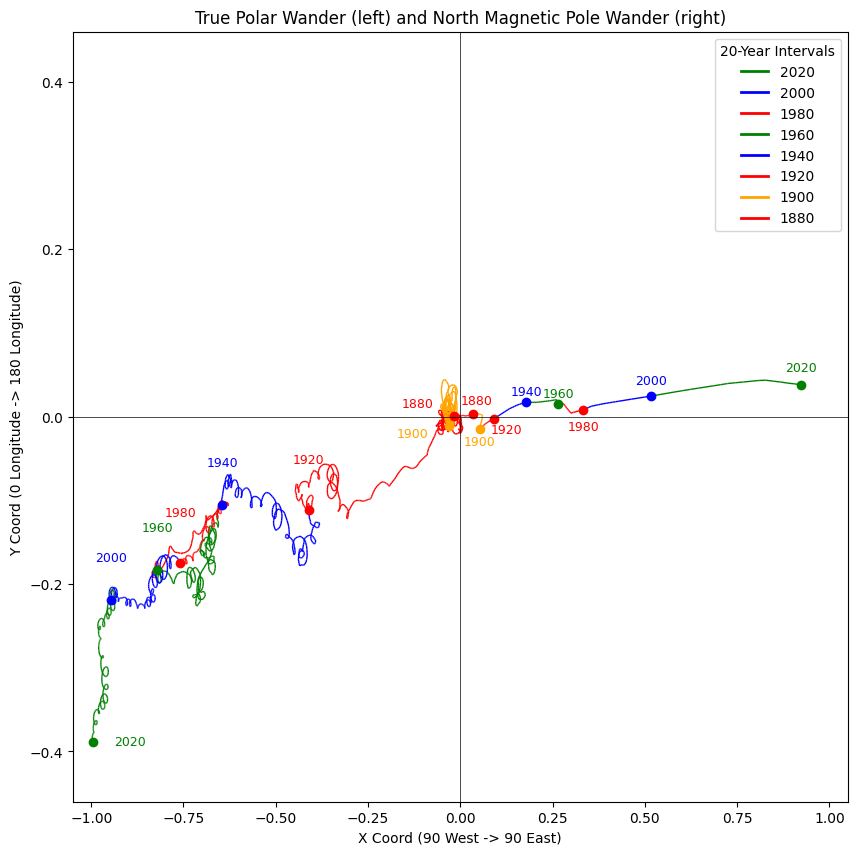
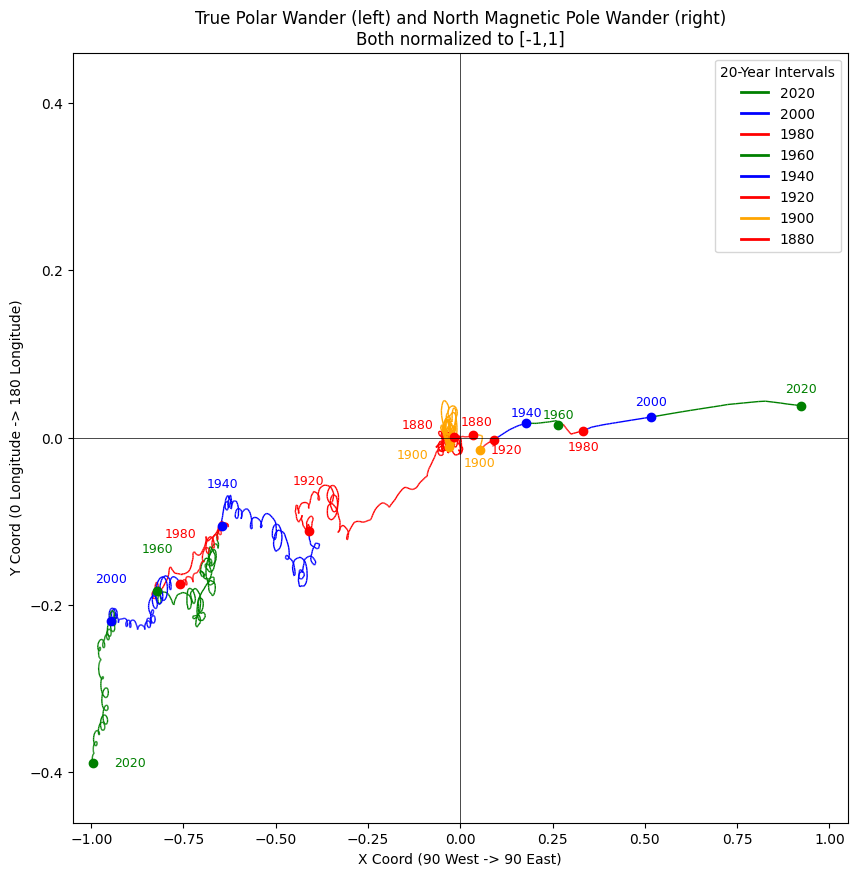
nit

diff --git a/1-EVIDENCE/1-PRESENT-CLIMATE-ANOMALIES/0-data-studies/polar-nutation-orientation-viz/geomagnetic-wander-overlay/finalplot.py b/1-EVIDENCE/1-PRESENT-CLIMATE-ANOMALIES/0-data-studies/polar-nutation-orientation-viz/geomagnetic-wander-overlay/finalplot.py
@@ -174,7 +174,7 @@ def plot_time_series(filenames):
     # Labels and title
     ax.set_xlabel('X Coord (90 West -> 90 East)')
     ax.set_ylabel('Y Coord (0 Longitude -> 180 Longitude)')
-    ax.set_title('True Polar Wander (left) and North Magnetic Pole Wander (right)')
+    ax.set_title('True Polar Wander (left) and North Magnetic Pole Wander (right)\nBoth normalized to [-1,1]')
 
     # Save the plot to output.png
     plt.savefig('output.png', bbox_inches='tight')
